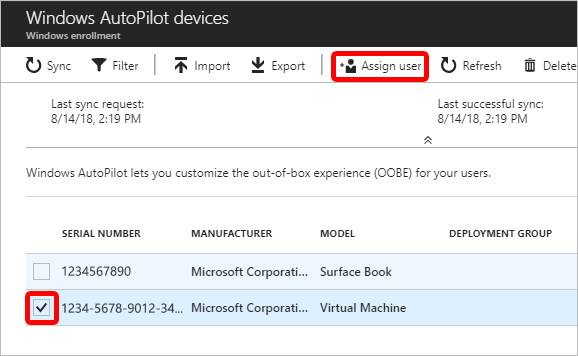
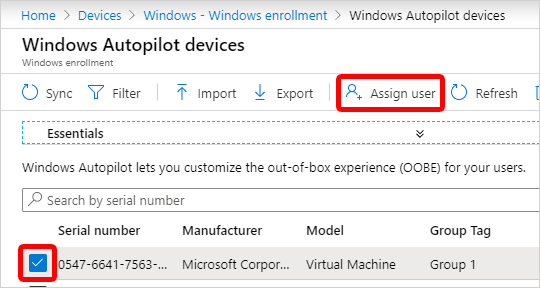
update for MEMAC UI

diff --git a/intune/enrollment/enrollment-autopilot.md b/intune/enrollment/enrollment-autopilot.md
@@ -55,7 +55,7 @@ For more information, see the understanding powershell cmdlet.
 
 You can add Windows Autopilot devices by importing a CSV file with their information.
 
-1. In the [Microsoft Endpoint Manager Admin Center](https://go.microsoft.com/fwlink/?linkid=2109431), choose **Device enrollment** > **Windows enrollment** > **Devices** > **Import**.
+1. In the [Microsoft Endpoint Manager Admin Center](https://go.microsoft.com/fwlink/?linkid=2109431), choose **Devices** > **Windows** > **Devices** (under **Windows Autopilot Deployment Program** > **Import**.
 
     ![Screenshot of Windows Autopilot devices](./media/enrollment-autopilot/autopilot-import-device.png)
 
@@ -71,7 +71,7 @@ You can add Windows Autopilot devices by importing a CSV file with their informa
 
 3. Choose **Import** to start importing the device information. Importing can take several minutes.
 
-4. After import is complete, choose **Device enrollment** > **Windows enrollment** > **Windows Autopilot** > **Devices** > **Sync**. A message displays that the synchronization is in progress. The process might take a few minutes to complete, depending on how many devices are being synchronized.
+4. After import is complete, choose **Devices** > **Windows** > **Windows enrollment** > **Devices** (under **Windows Autopilot Deployment Program** > **Sync**. A message displays that the synchronization is in progress. The process might take a few minutes to complete, depending on how many devices are being synchronized.
 
 5. Refresh the view to see the new devices.
 
@@ -94,7 +94,7 @@ You can add Windows Autopilot devices by importing a CSV file with their informa
 
 ## Create an Autopilot deployment profile
 Autopilot deployment profiles are used to configure the Autopilot devices. You can create up to 350 profiles per tenant.
-1. In the [Microsoft Endpoint Manager Admin Center](https://go.microsoft.com/fwlink/?linkid=2109431), choose **Device enrollment** > **Windows enrollment** > **Deployment Profiles** > **Create Profile**.
+1. In the [Microsoft Endpoint Manager Admin Center](https://go.microsoft.com/fwlink/?linkid=2109431), choose **Devices** > **Windows** > **Windows enrollment** > **Deployment Profiles** > **Create Profile**.
 2. On the **Basics** page, type a **Name** and optional **Description**.
 
     ![Screenshot of Basics page](./media/enrollment-autopilot/create-profile-basics.png)
@@ -135,15 +135,14 @@ Autopilot deployment profiles are used to configure the Autopilot devices. You c
     ![Screenshot of Review page](./media/enrollment-autopilot/create-profile-review.png)
 
 > [!NOTE]
-> Intune will periodically check for new devices in the assigned groups, and then begin the process of assigning profiles to those devices. This process can take several minutes to complete. Before deploying a device, ensure that this process has completed.  You can check under **Device enrollment** > **Windows enrollment** > **Devices** where you should see the profile status change from "Unassigned" to "Assigning" and finally to "Assigned."
+> Intune will periodically check for new devices in the assigned groups, and then begin the process of assigning profiles to those devices. This process can take several minutes to complete. Before deploying a device, ensure that this process has completed.  You can check under **Devices** > **Windows** > **Windows enrollment** > **Devices** (under **Windows Autopilot Deployment Program** where you should see the profile status change from "Unassigned" to "Assigning" and finally to "Assigned."
 
 ## Edit an Autopilot deployment profile
 After you've created an Autopilot deployment profile, you can edit certain parts of the deployment profile.   
 
-1. In the [Microsoft Endpoint Manager Admin Center](https://go.microsoft.com/fwlink/?linkid=2109431), choose **Device enrollment**.
-2. Under **Windows enrollment**, in the **Windows Autopilot** section, choose **Deployment Profiles**.
-3. Select the profile you would like to edit.
-4. Click **Properties** on the left to change the name or description of the deployment profile. Click **Save** after you make changes.
+1. In the [Microsoft Endpoint Manager Admin Center](https://go.microsoft.com/fwlink/?linkid=2109431), choose **Devices** > **Windows** > **Windows enrollment** > **Deployment profiles**.
+2. Select the profile you would like to edit.
+3. Select **Properties** on the left to change the name or description of the deployment profile. Click **Save** after you make changes.
 5. Click **Settings** to make changes to the OOBE settings. Click **Save** after you make changes.
 
 > [!NOTE]
@@ -152,11 +151,10 @@ After you've created an Autopilot deployment profile, you can edit certain parts
 ## Edit Autopilot device attributes
 After you've uploaded an Autopilot device, you can edit certain attributes of the device.
 
-1. In Intune in the Azure portal, choose **Device enrollment**.
-2. Under **Windows enrollment**, in the **Windows Autopilot** section, choose **Devices**.
-3. Select the device you want to edit.
-4. In the pane on the right of the screen, you can edit the device name, group tag, or User Friendly Name (if you've assigned a user).
-5. Select **Save**.
+1. In the [Microsoft Endpoint Manager Admin Center](https://go.microsoft.com/fwlink/?linkid=2109431),select **Devices** > **Windows** > **Windows enrollment** > **Devices** (under **Windows Autopilot Deployment Program**.
+2. Select the device you want to edit.
+3. In the pane on the right of the screen, you can edit the device name, group tag, or User Friendly Name (if you've assigned a user).
+4. Select **Save**.
 
 > [!NOTE]
 > Device names can be configured for all devices, but are ignored in Hybrid Azure AD joined deployments. Device name still comes from the domain join profile for Hybrid Azure AD devices.
@@ -165,7 +163,7 @@ After you've uploaded an Autopilot device, you can edit certain attributes of th
 
 Alerts will show how many Autopilot program devices don't have Autopilot deployment profiles. Use the information in the alert to create profiles and assign them to the unassigned devices. When you click the alert, you see a full list of Windows Autopilot devices and detailed information about them.
 
-To see alerts for unassigned devices, in [Intune in the Azure portal](https://aka.ms/intuneportal), choose **Device enrollment** > **Overview** > **Unassigned devices**.  
+To see alerts for unassigned devices, in [Intune in the Azure portal](https://aka.ms/intuneportal), choose **Devices** > **Overview** > **Enrollment alerts** > **Unassigned devices**.  
 
 ## Assign a user to a specific Autopilot device
 
@@ -173,7 +171,7 @@ You can assign a user to a specific Autopilot device. This assignment pre-fills 
 
 Prerequisites: Azure Active Directory Company Portal has been configured and Windows 10, version 1809 or later.
 
-1. In the [Microsoft Endpoint Manager Admin Center](https://go.microsoft.com/fwlink/?linkid=2109431), choose **Device enrollment** > **Windows enrollment** > **Devices** > choose the device > **Assign user**.
+1. In the [Microsoft Endpoint Manager Admin Center](https://go.microsoft.com/fwlink/?linkid=2109431), choose **Devices** > **Windows** > **Windows enrollment** > **Devices** (under **Windows Autopilot Deployment Program** > choose the device > **Assign user**.
 
     ![Screenshot of Assign user](./media/enrollment-autopilot/assign-user.png)
 
@@ -189,7 +187,7 @@ Prerequisites: Azure Active Directory Company Portal has been configured and Win
 
 ## Autopilot deployments report
 You can see details on each device deployed through Windows Autopilot.
-To see the report, go to **Intune** and, under **Monitor**, choose **Autopilot deployments**.
+To see the report, go to the [Microsoft Endpoint Manager Admin Center](https://go.microsoft.com/fwlink/?linkid=2109431), choose **Devices** > **Monitor** > **Autopilot deployments**.
 The data is available for 30 days after deployment.
 
 
@@ -197,7 +195,7 @@ The data is available for 30 days after deployment.
 
 You can delete Windows Autopilot devices that aren't enrolled into Intune:
 
-- Delete the devices from Windows Autopilot at **Device enrollment** > **Windows enrollment** > **Devices**. Choose the devices you want to delete, then choose **Delete**. Windows Autopilot device deletion can take a few minutes to complete.
+- Delete the devices from Windows Autopilot at **Devices** > **Windows** > **Windows enrollment** > **Devices** (under **Windows Autopilot Deployment Program**. Choose the devices you want to delete, then choose **Delete**. Windows Autopilot device deletion can take a few minutes to complete.
 
 Completely removing a device from your tenant requires you to delete the Intune device, the Azure Active Directory device, and the Windows Autopilot device records. This can all be done from Intune:
 
@@ -205,7 +203,7 @@ Completely removing a device from your tenant requires you to delete the Intune 
 
 2. Delete the devices in Azure Active Directory devices at **Devices** > **Azure AD devices**.
 
-3. Delete the devices from Windows Autopilot at **Device enrollment** > **Windows enrollment** > **Devices**. Choose the devices you want to delete, then choose **Delete**. Windows Autopilot device deletion can take a few minutes to complete.
+3. Delete the devices from Windows Autopilot at **Devices** > **Windows** > **Windows enrollment** > **Devices** (under **Windows Autopilot Deployment Program** >. Choose the devices you want to delete, then choose **Delete**. Windows Autopilot device deletion can take a few minutes to complete.
 
 ## Using Autopilot in other portals
 If you aren't interested in mobile device management, you can use Autopilot in other portals. While using other portals is an option, we recommend you only use Intune to manage your Autopilot deployments. When you use Intune and another portal, Intune isn't able to:  
